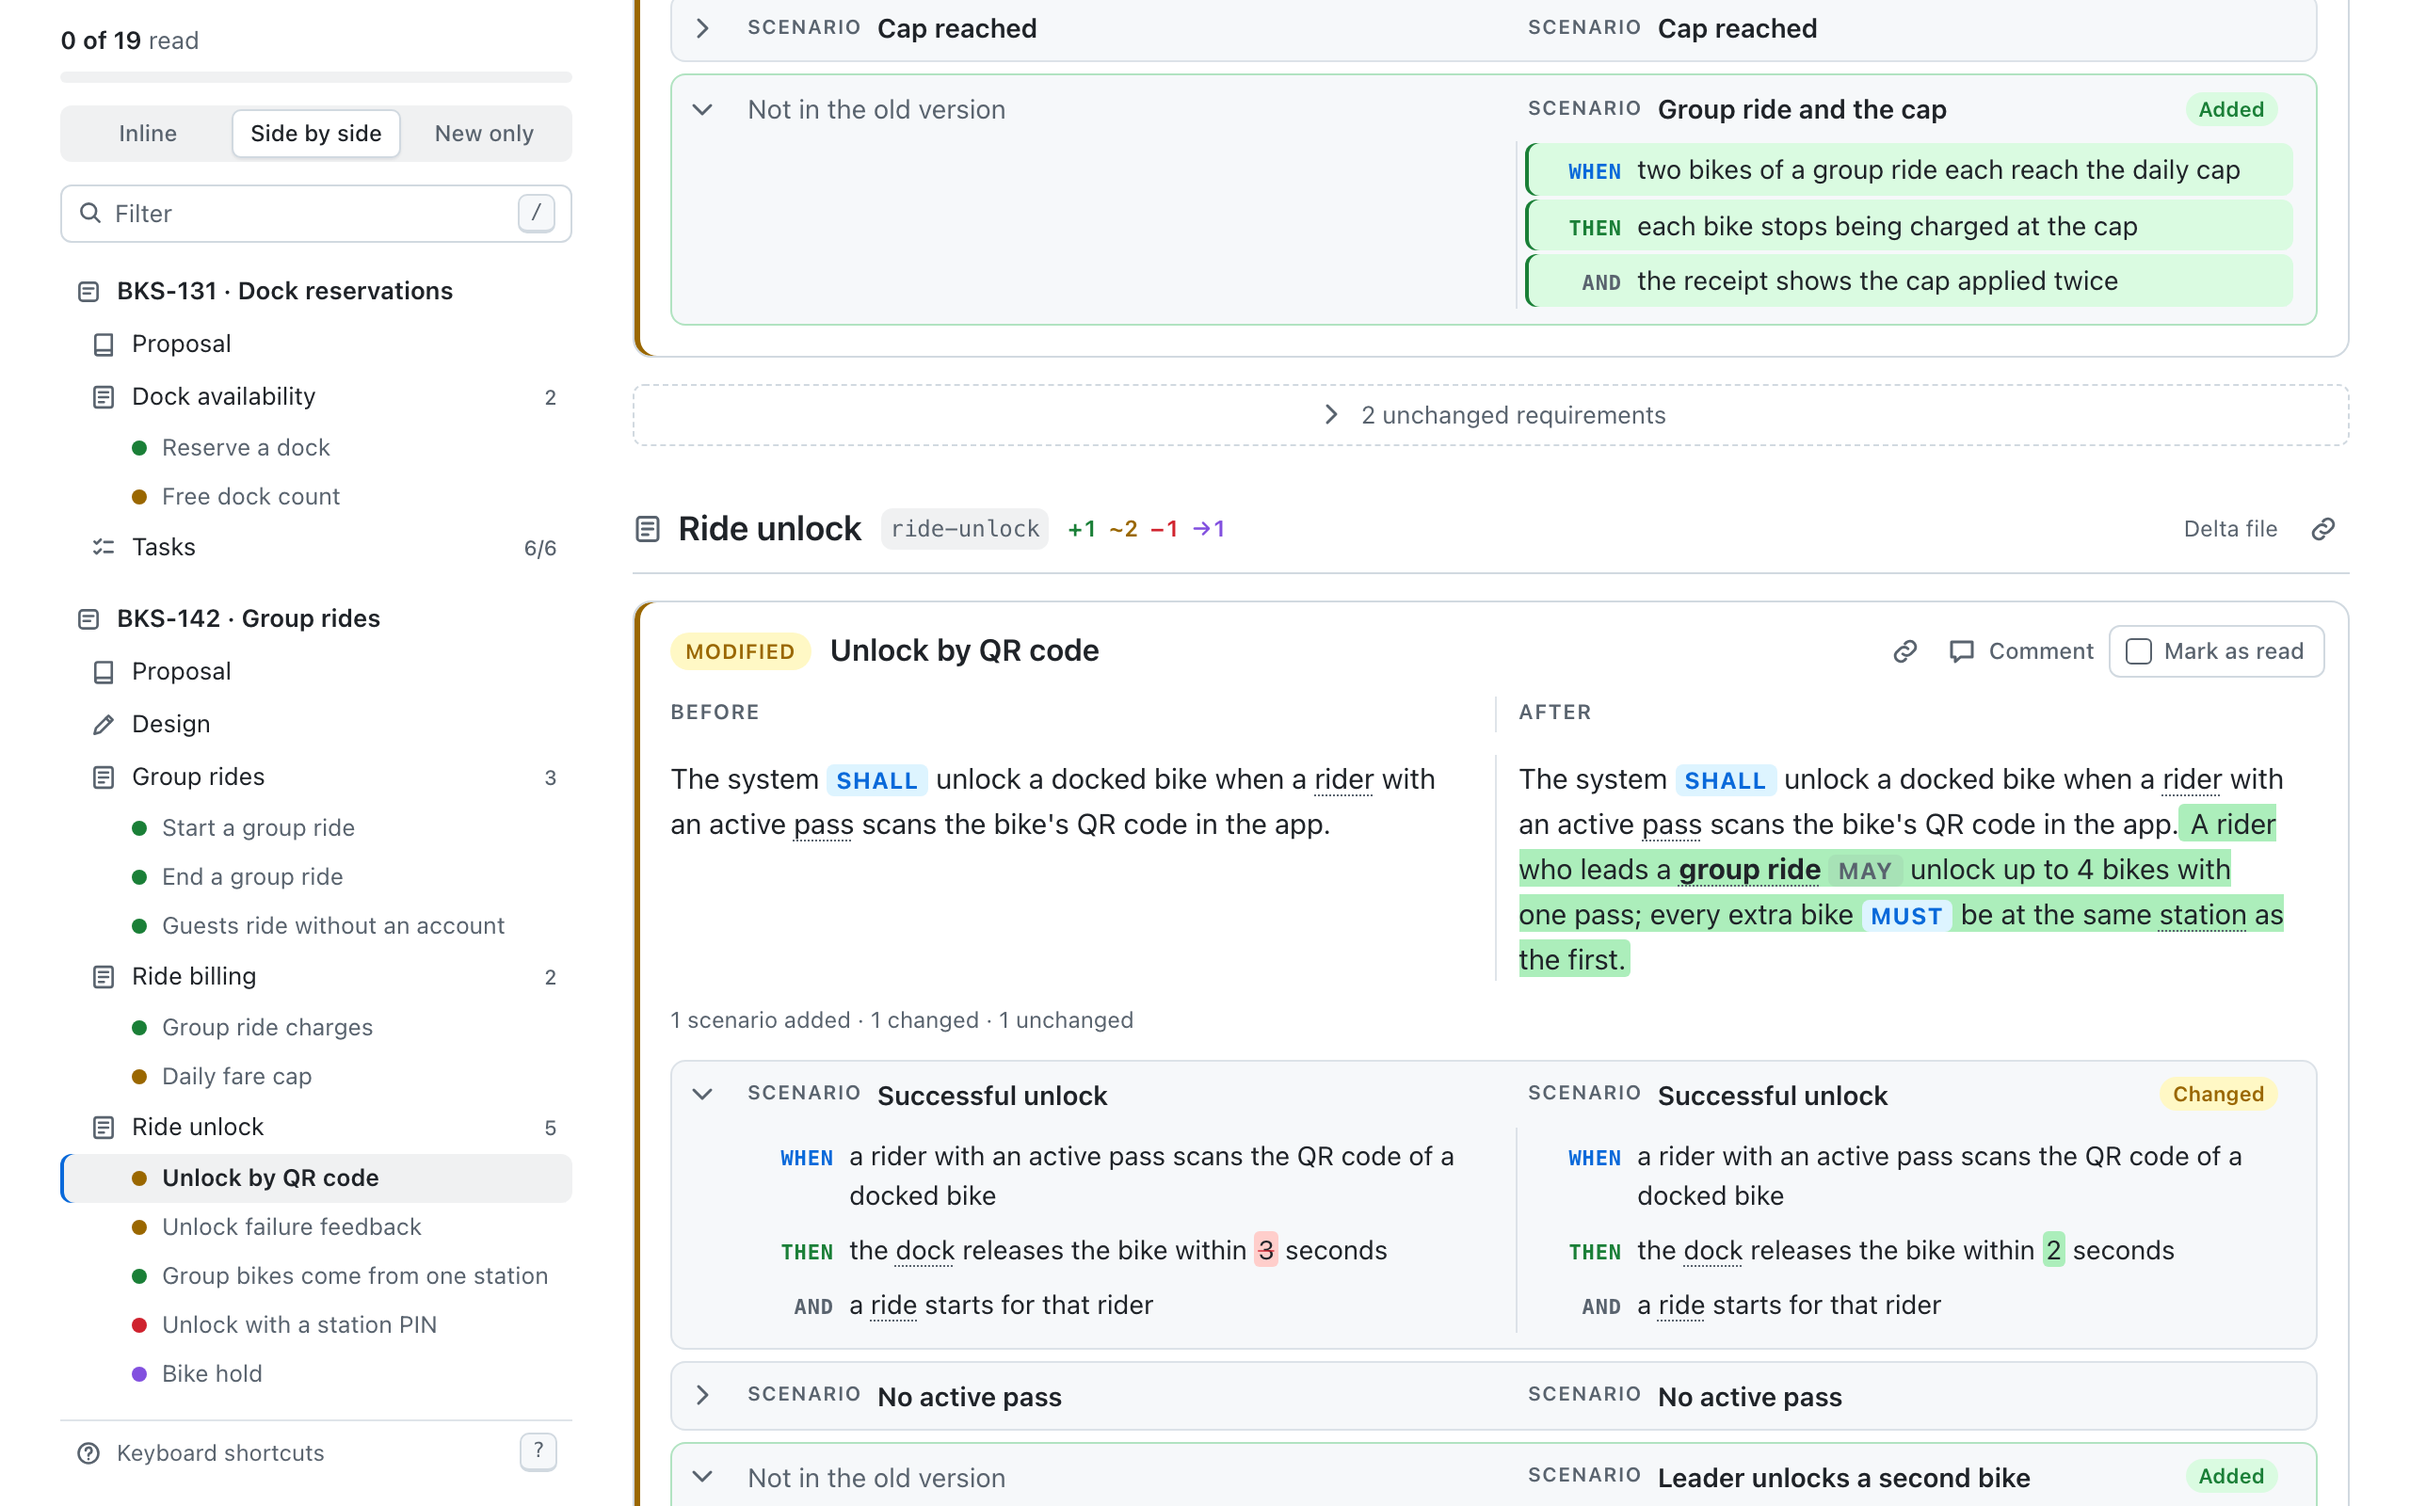
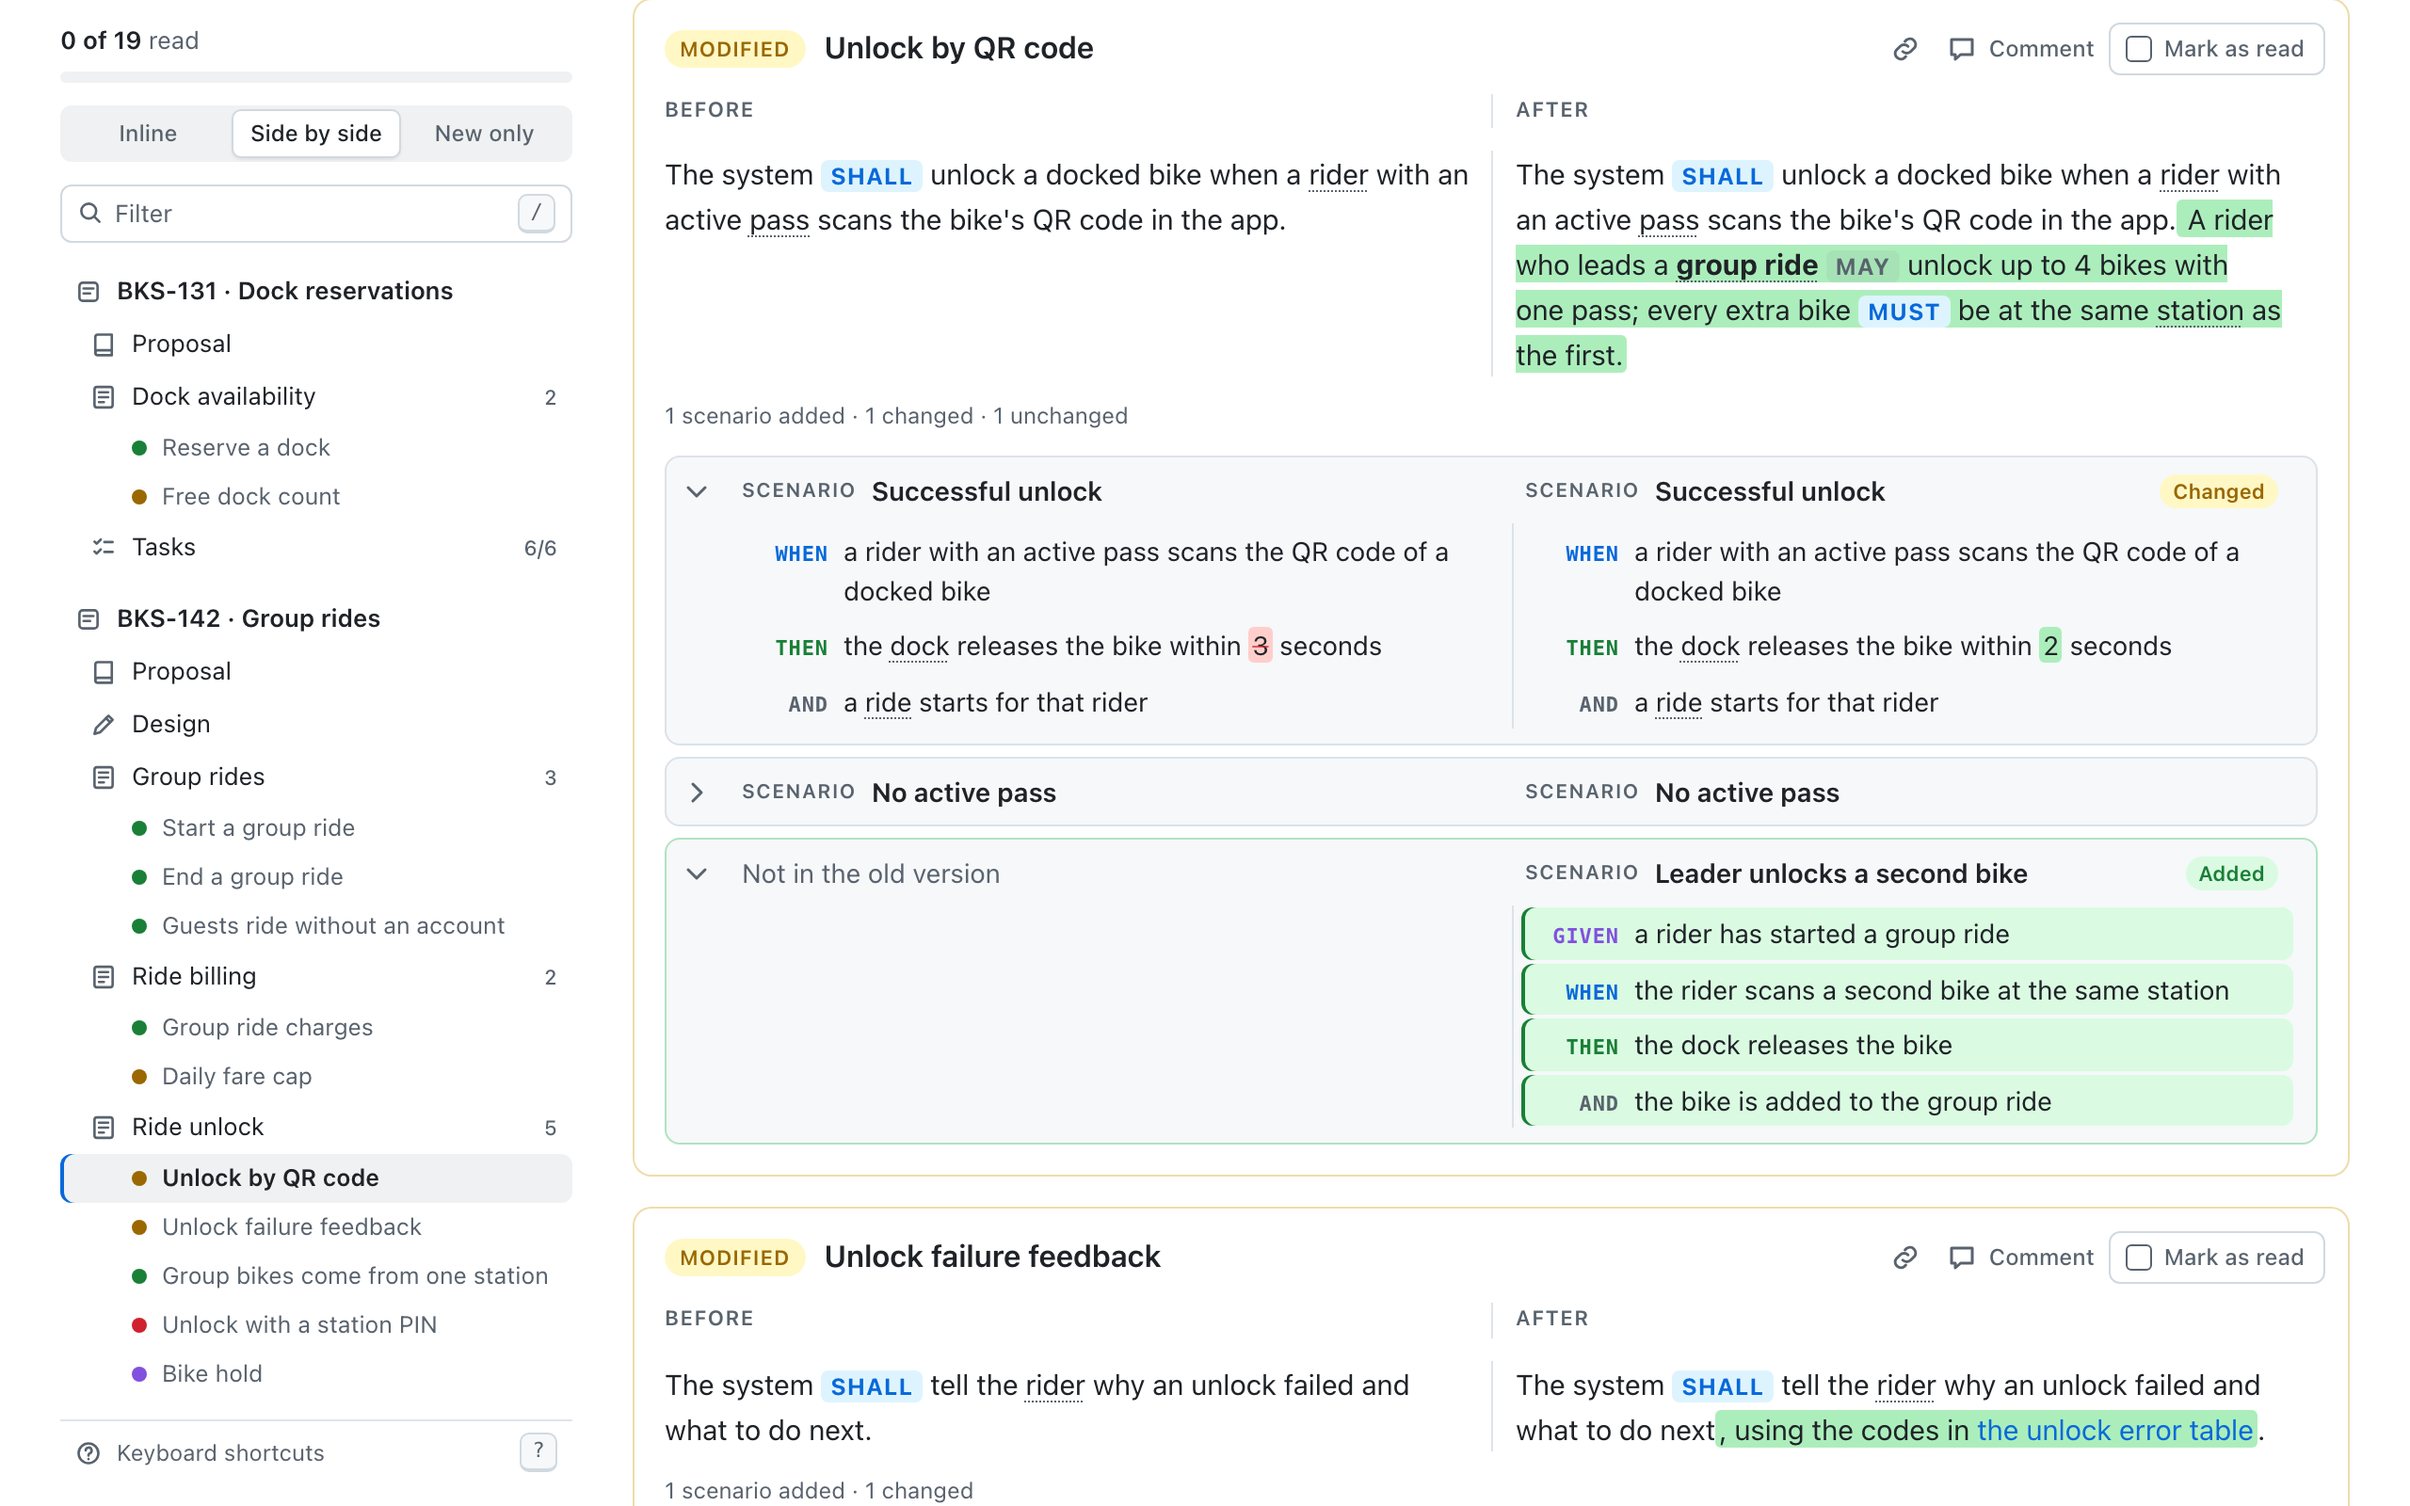
Tint card and callout borders instead of striping one side
Requirement cards carry their change type as a tinted border all round
(the label already says which it is), and callouts are bordered banners,
the way GitHub draws its own. Progress bars scale their fill with a
transform rather than animating width.

One-sided rules remain where they are a convention: Markdown blockquotes,
added and removed diff rows, and the current item of the outline.

diff --git a/src/ui/styles.css b/src/ui/styles.css
@@ -279,10 +279,9 @@ kbd {
 .bar > span {
   display: block;
   height: 100%;
-  min-width: 0;
   background: var(--bgColor-accent-emphasis, #0969da);
-  border-radius: 3px;
-  transition: width 0.2s ease;
+  transform-origin: 0 50%;
+  transition: transform 0.2s ease;
 }
 
 .bar.is-complete > span {
@@ -893,23 +892,22 @@ button.flag:hover {
   background: var(--bg);
   border: 1px solid var(--border);
   border-radius: 10px;
-  box-shadow: inset 3px 0 0 var(--req-line, transparent);
 }
 
 .req-added {
-  --req-line: var(--added-line);
+  border-color: var(--borderColor-success-muted, #4ac26b66);
 }
 
 .req-modified {
-  --req-line: var(--modified-line);
+  border-color: var(--borderColor-attention-muted, #d4a72c66);
 }
 
 .req-removed {
-  --req-line: var(--removed-line);
+  border-color: var(--borderColor-danger-muted, #ff818266);
 }
 
 .req-renamed {
-  --req-line: var(--renamed-line);
+  border-color: var(--borderColor-done-muted, #c297ff66);
 }
 
 .req-head {
@@ -917,7 +915,7 @@ button.flag:hover {
   flex-wrap: wrap;
   gap: 6px 10px;
   align-items: center;
-  padding: 12px 12px 0 19px;
+  padding: 12px 12px 0 16px;
 }
 
 .req-head h4 {
@@ -940,7 +938,7 @@ button.flag:hover {
   display: flex;
   flex-direction: column;
   gap: 12px;
-  padding: 10px 16px 16px 19px;
+  padding: 10px 16px 16px;
 }
 
 .req-body:empty {
@@ -1355,7 +1353,6 @@ li.blk-removed {
 
 .req-unchanged {
   border-style: dashed;
-  box-shadow: none;
 }
 
 .req-unchanged .req-head h4 {
@@ -1365,8 +1362,8 @@ li.blk-removed {
 .callout {
   padding: 10px 14px;
   background: var(--bg-muted);
+  border: 1px solid var(--border-muted);
   border-radius: 8px;
-  box-shadow: inset 3px 0 0 var(--border);
 }
 
 .callout-title {
@@ -1382,7 +1379,7 @@ li.blk-removed {
 
 .callout-accent {
   background: var(--bgColor-accent-muted, #ddf4ff);
-  box-shadow: inset 3px 0 0 var(--borderColor-accent-emphasis, #0969da);
+  border-color: var(--borderColor-accent-muted, #54aeff66);
 }
 
 .callout-accent .callout-title {
@@ -1392,7 +1389,7 @@ li.blk-removed {
 .callout-attention {
   padding: 14px 16px;
   background: var(--modified-bg);
-  box-shadow: inset 3px 0 0 var(--modified-line);
+  border-color: var(--borderColor-attention-muted, #d4a72c66);
 }
 
 .callout-attention .callout-title {
@@ -1402,7 +1399,7 @@ li.blk-removed {
 
 .callout-danger {
   background: var(--removed-bg);
-  box-shadow: inset 3px 0 0 var(--removed-line);
+  border-color: var(--borderColor-danger-muted, #ff818266);
 }
 
 .problems {
@@ -1413,7 +1410,7 @@ li.blk-removed {
 }
 
 .req > .problems {
-  padding: 10px 16px 0 19px;
+  padding: 10px 16px 0;
 }
 
 .problem {
@@ -1830,7 +1827,6 @@ button.chip:hover {
 
 .task.is-next {
   background: var(--modified-bg);
-  box-shadow: inset 2px 0 0 var(--modified-line);
 }
 
 .task-number {

diff --git a/src/ui/components/common.tsx b/src/ui/components/common.tsx
@@ -118,7 +118,7 @@ export function ProgressBar({
   total: number;
   label: string;
 }) {
-  const percent = total === 0 ? 0 : Math.round((done / total) * 100);
+  const fraction = total === 0 ? 0 : Math.min(1, done / total);
   return (
     <div
       className={done === total && total > 0 ? 'bar is-complete' : 'bar'}
@@ -128,7 +128,7 @@ export function ProgressBar({
       aria-valuemax={total}
       aria-valuenow={done}
     >
-      <span style={{ width: `${percent}%` }} />
+      <span style={{ transform: `scaleX(${fraction})` }} />
     </div>
   );
 }
